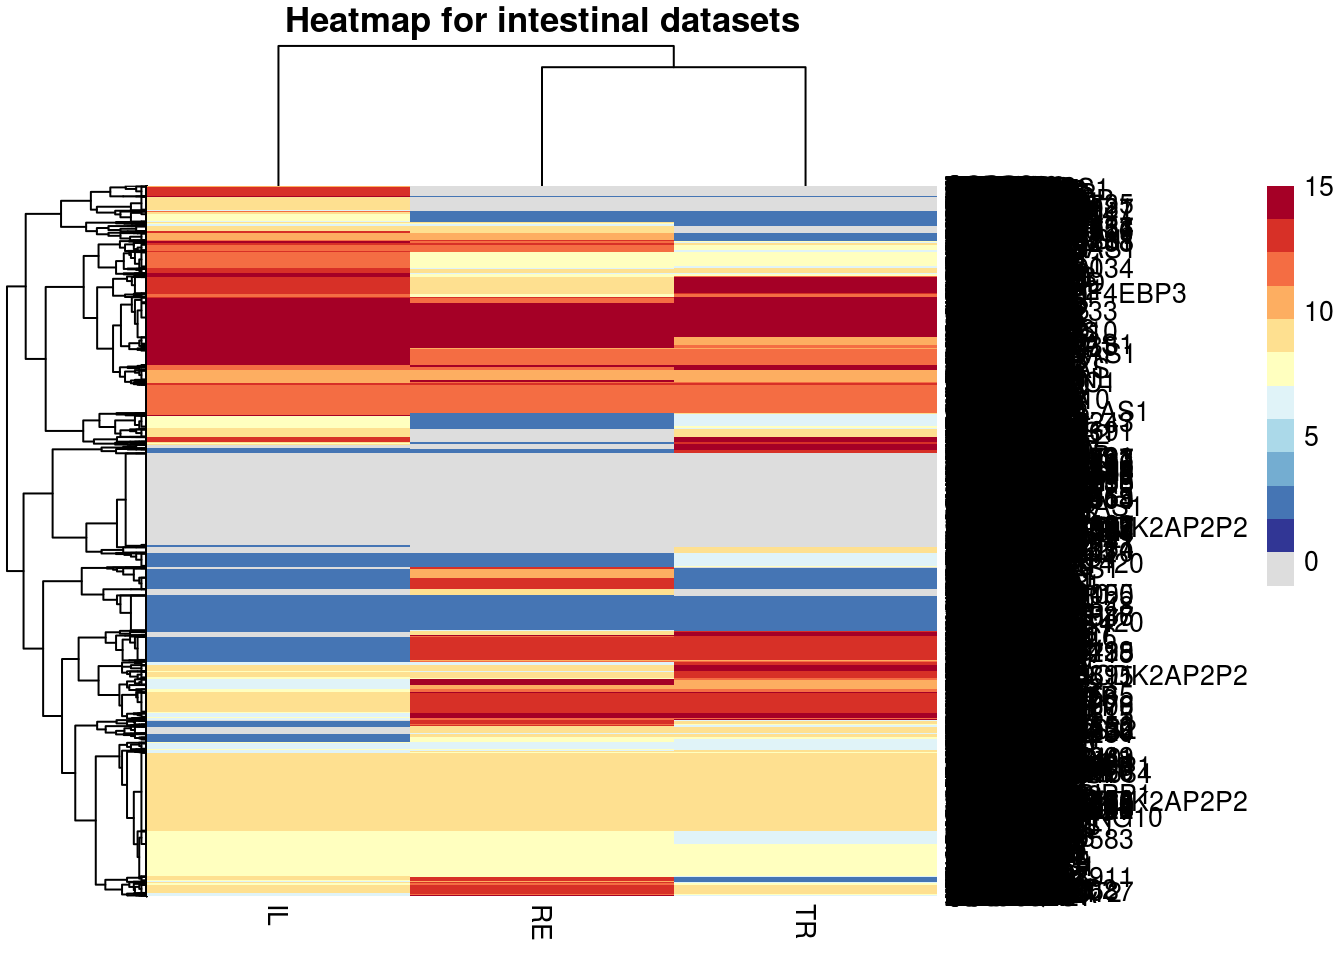
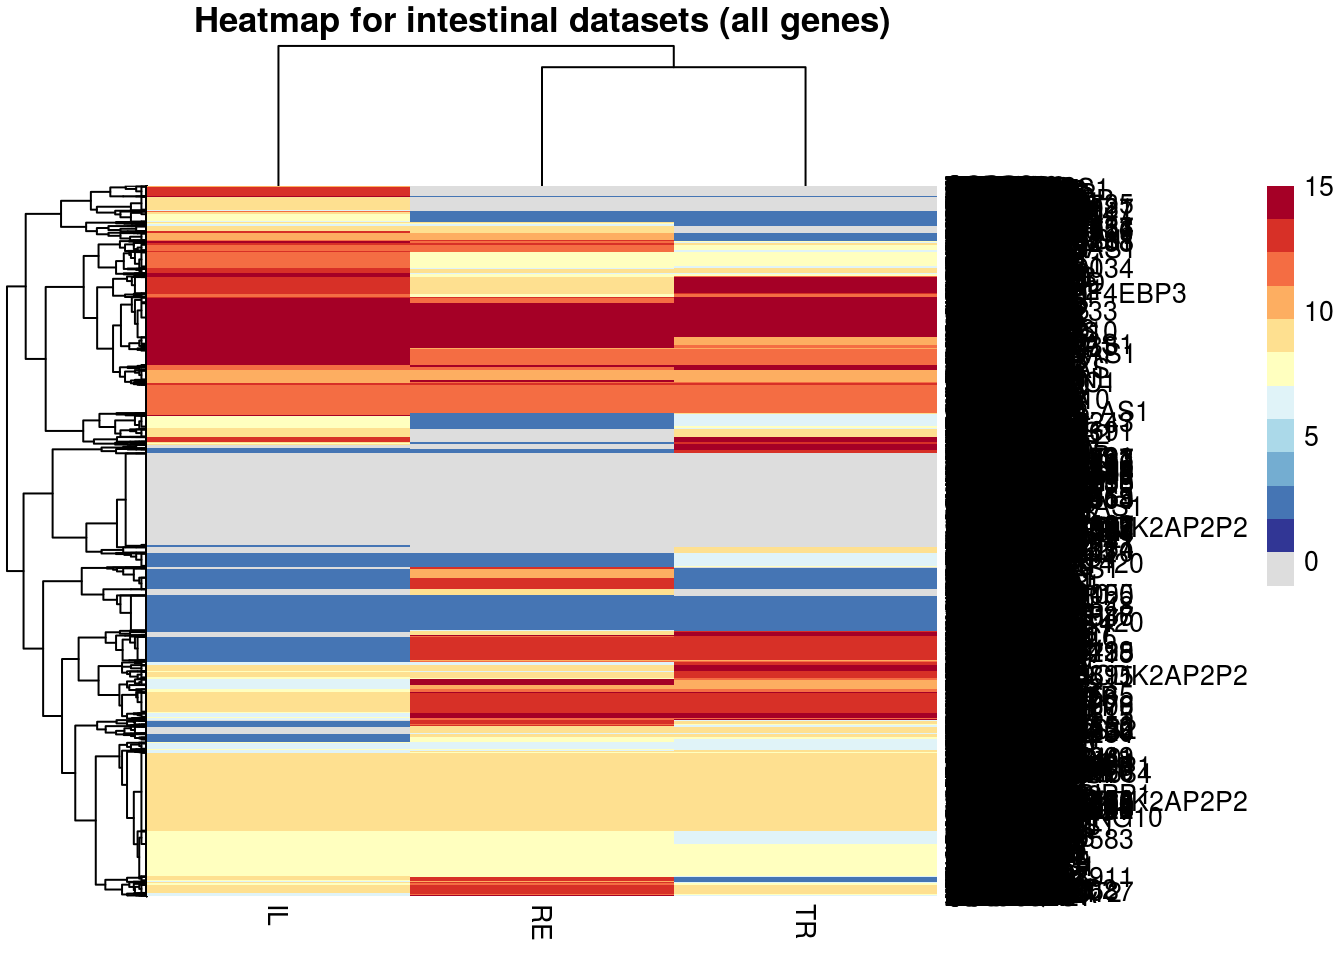
Corrected graph titles

Changed region(s): [[0.125, 0.0, 0.6562, 0.0625]]

diff --git a/index.html b/index.html
@@ -723,7 +723,7 @@ understanding of disease.</p>
     
     
   <a data-fancybox="gallery-gallery" href="/home/gallery/gallery/mox_pheatmap-1.png" >
-  <img src="/home/gallery/gallery/mox_pheatmap-1_hu58dbfc0b53ed8530121e51054c288d2c_35882_0x190_resize_lanczos_2.png" alt="">
+  <img src="/home/gallery/gallery/mox_pheatmap-1_hu7344978c5f4846af7c54959aa0ca92e3_100364_0x190_resize_lanczos_2.png" alt="">
   </a>
   
     
@@ -732,7 +732,7 @@ understanding of disease.</p>
     
     
   <a data-fancybox="gallery-gallery" href="/home/gallery/gallery/pheatmap_combinations_mdi_2-1.png" >
-  <img src="/home/gallery/gallery/pheatmap_combinations_mdi_2-1_hubc5d691723af16fa031910bb5b9370e8_99998_0x190_resize_lanczos_2.png" alt="">
+  <img src="/home/gallery/gallery/pheatmap_combinations_mdi_2-1_hufb2849403dcddaedba84180da5747469_102475_0x190_resize_lanczos_2.png" alt="">
   </a>
   
     
@@ -741,7 +741,7 @@ understanding of disease.</p>
     
     
   <a data-fancybox="gallery-gallery" href="/home/gallery/gallery/pheatmap_combinations_mdi_2-2.png" >
-  <img src="/home/gallery/gallery/pheatmap_combinations_mdi_2-2_hueac2ef5ba5caf37115973ed518e34fa2_93748_0x190_resize_lanczos_2.png" alt="">
+  <img src="/home/gallery/gallery/pheatmap_combinations_mdi_2-2_hu592f002e514b68097c6cefa145a8dc5c_95668_0x190_resize_lanczos_2.png" alt="">
   </a>
   
     
@@ -750,7 +750,7 @@ understanding of disease.</p>
     
     
   <a data-fancybox="gallery-gallery" href="/home/gallery/gallery/sim_heatmaps-2.png" >
-  <img src="/home/gallery/gallery/sim_heatmaps-2_hu3a3ae02ea5ea7204acbbcff783c3e12f_71183_0x190_resize_lanczos_2.png" alt="">
+  <img src="/home/gallery/gallery/sim_heatmaps-2_hue68d7d4b6d71415f076eea055297268c_73400_0x190_resize_lanczos_2.png" alt="">
   </a>
   
     
@@ -759,7 +759,7 @@ understanding of disease.</p>
     
     
   <a data-fancybox="gallery-gallery" href="/home/gallery/gallery/sim_heatmaps-3.png" >
-  <img src="/home/gallery/gallery/sim_heatmaps-3_hu7e417d44bb1179acd8571b5acaf93c98_79695_0x190_resize_lanczos_2.png" alt="">
+  <img src="/home/gallery/gallery/sim_heatmaps-3_hubd284cc4e9b39885e77d68d21eb33558_81973_0x190_resize_lanczos_2.png" alt="">
   </a>
   
 
